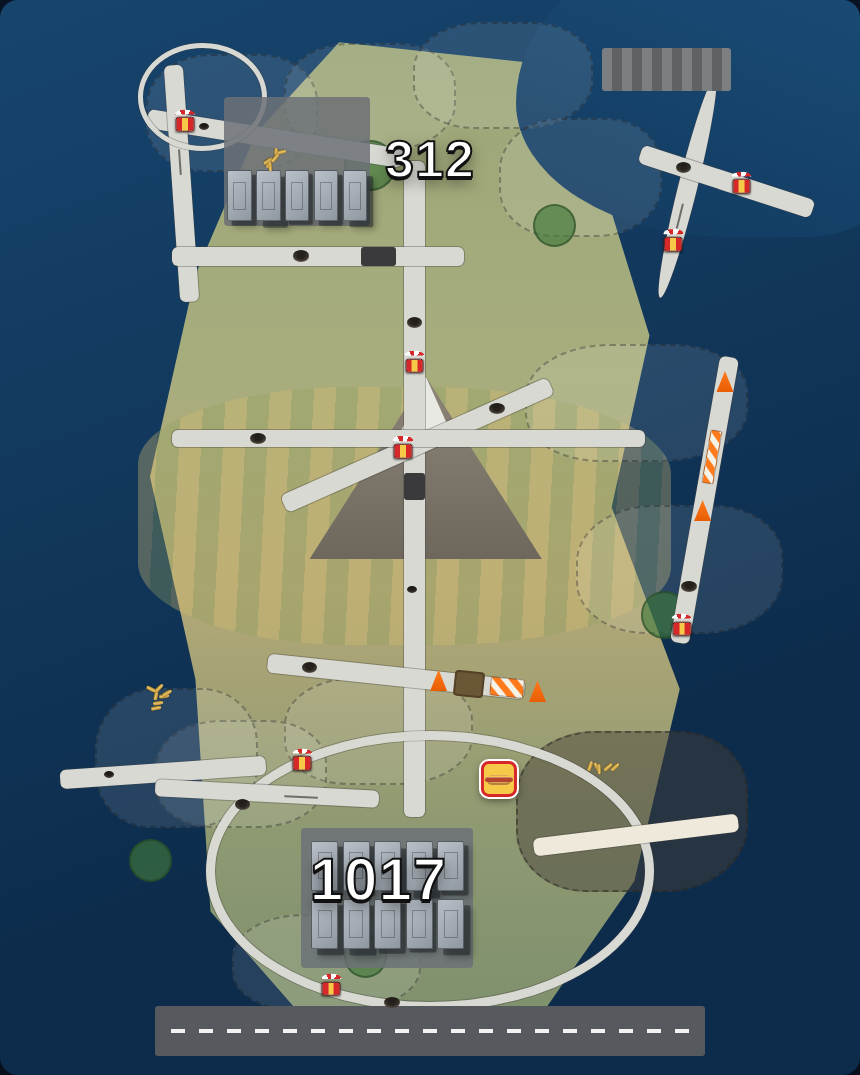
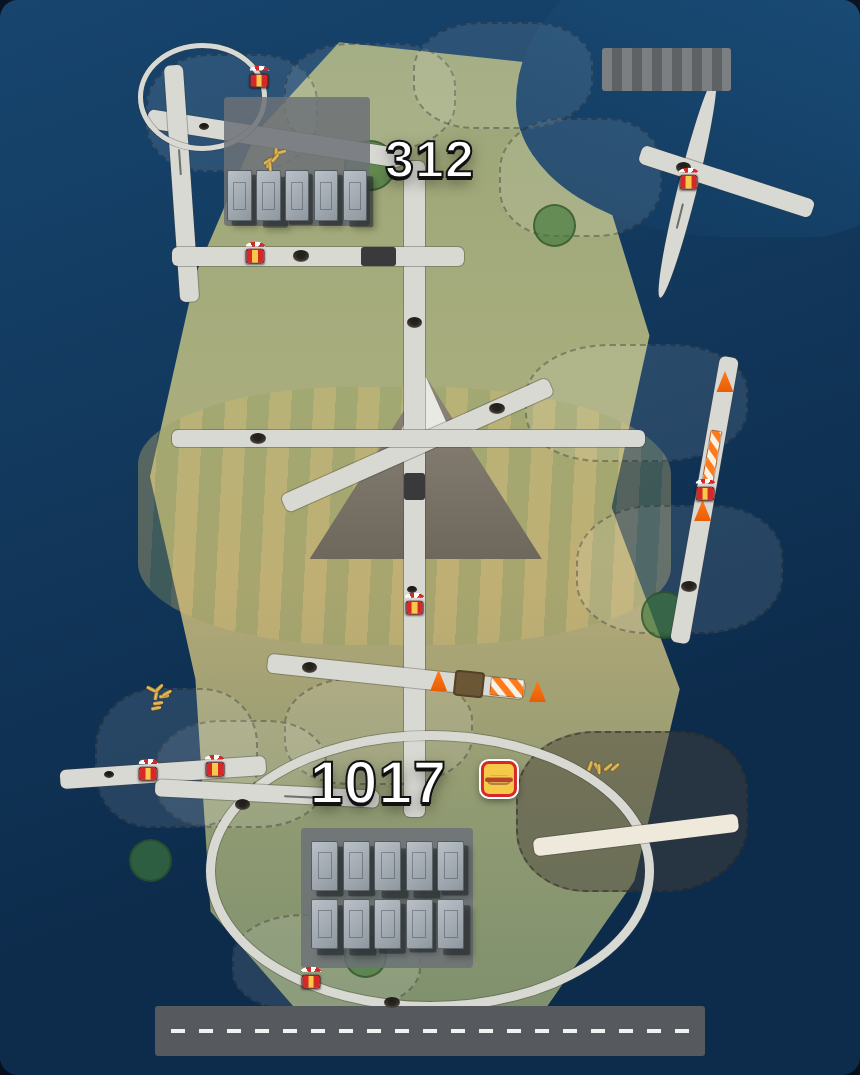
Move the big map's 1017 label off the downtown towers
It now sits between the top of the Perimeter and the towers, clear of
every roof; the random carts keep out from under it.

Claude-Session: https://claude.ai/code/session_01FagBtygwPmHUod4bPZTnD1

diff --git a/map-detail-glizzys-2-go.js b/map-detail-glizzys-2-go.js
@@ -26,6 +26,7 @@
     ];
     const KEEP_CLEAR = [                              // [x, y, radius]
         [58, 72.5, 6],                           // the job station
+        [44, 73, 9],                             // under the 1017 label
         [56, 63.3, 7],                           // construction, Red Clay Expressway
         [82.4, 41, 6],                           // construction, Backroads Highway
     ];
